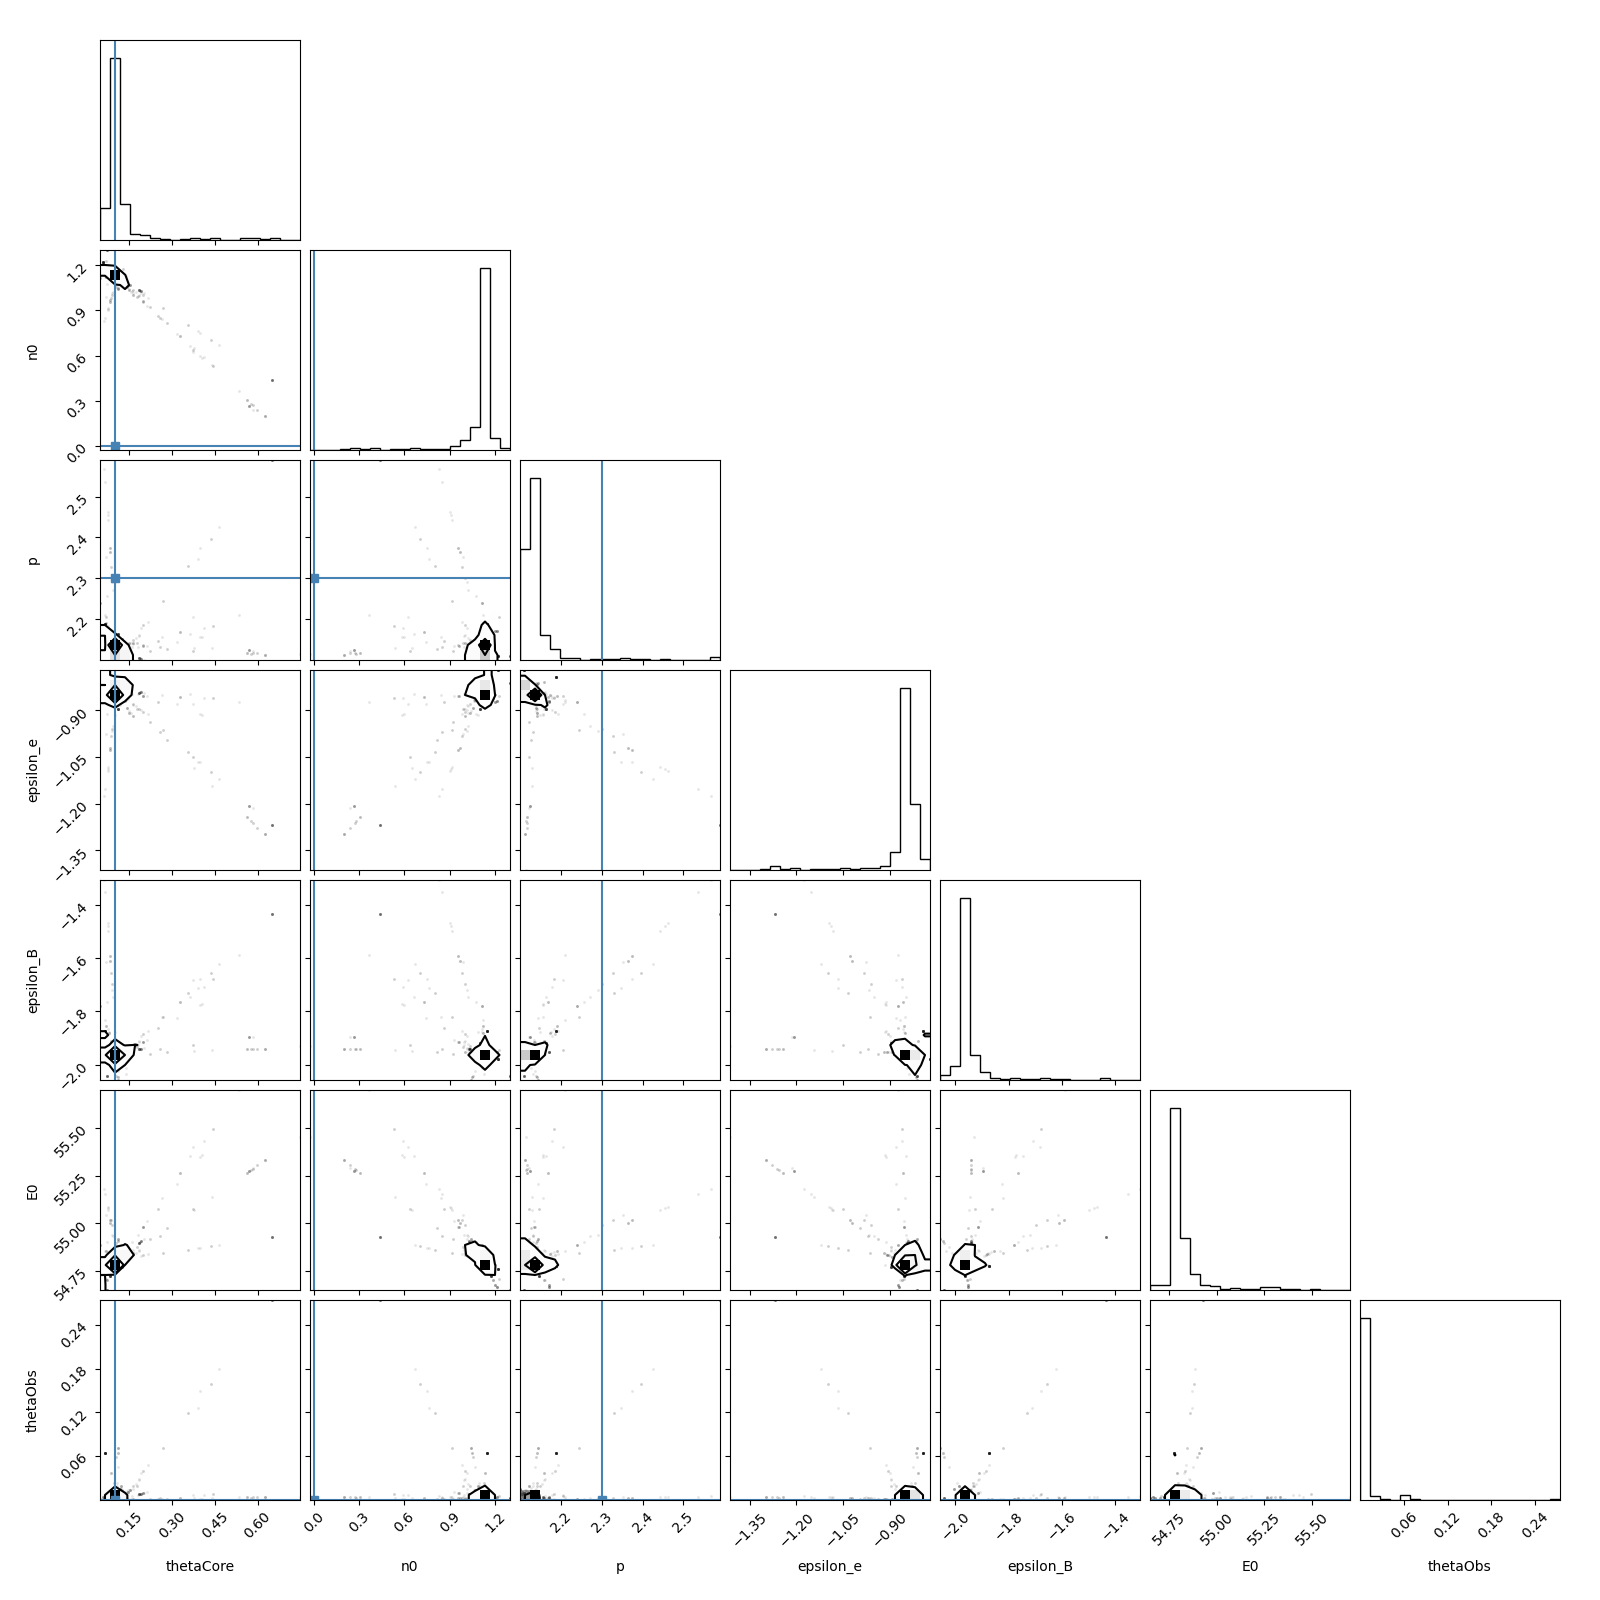
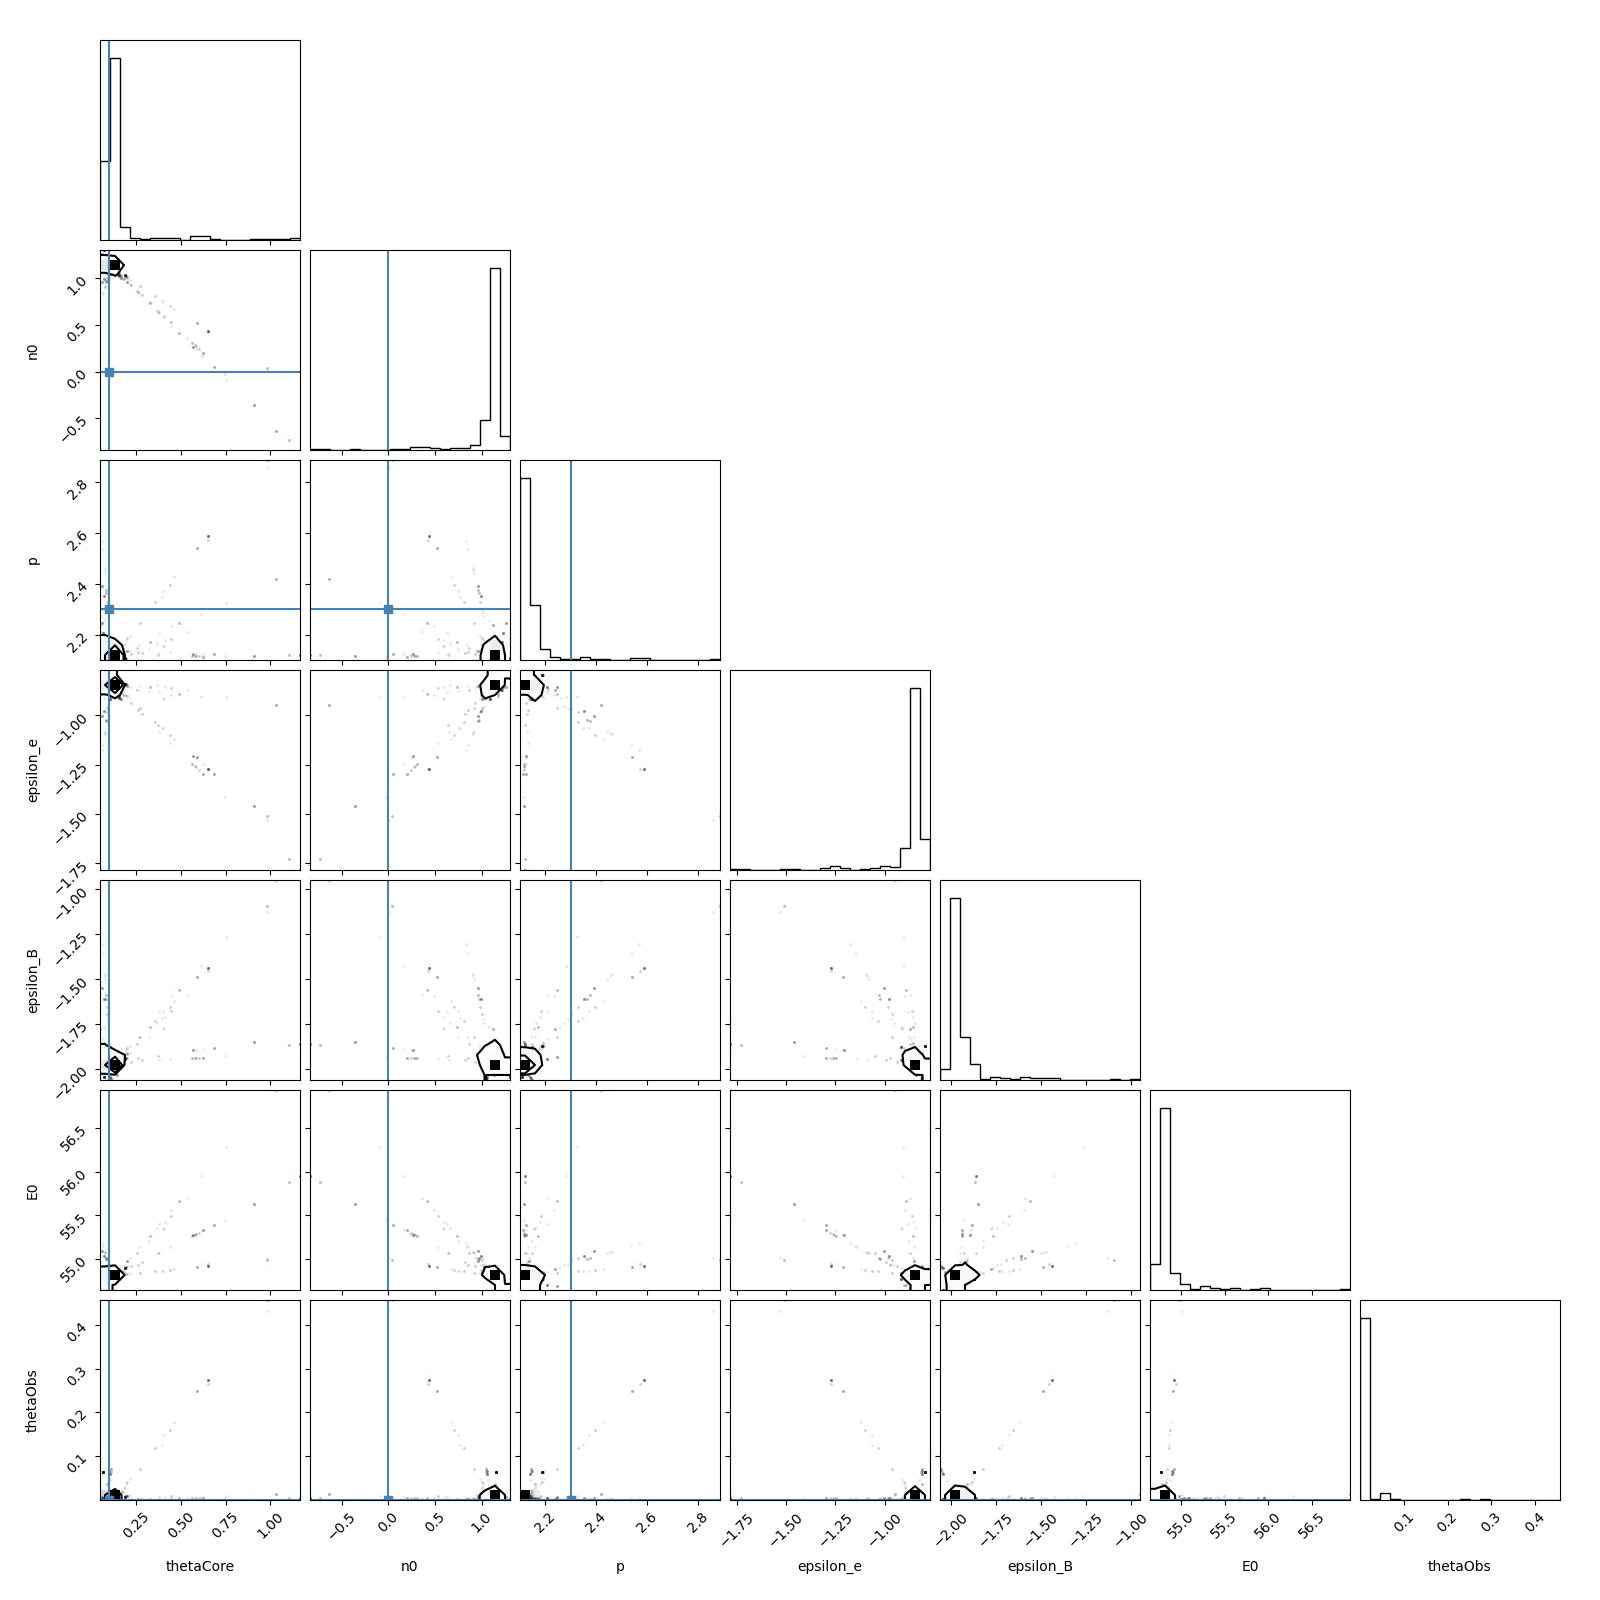
messing around with the real data

diff --git a/Flux_samplers/real_test7.py b/Flux_samplers/real_test7.py
@@ -12,13 +12,13 @@ from multiprocessing import Pool
 import time
 from functools import partial
 import concurrent.futures
-import sampler as splr
+import sampler7 as splr
 
 z = 1.619
 d_L = 39.755*9.461e26
 
 # core angle, log10 density, electron distribution, log10 thermal fraction, log10 magnetic fraction, log10 isotropic energy, observation angle
-initial = np.array([0.1,1.0,2.3,-1.0,-2.0,54.0])
+initial = np.array([0.1,1.0,2.3,-1.0,-2.0,54.0,0.0])
 
 #unpack data
 time, freq, flux, flux_err = np.genfromtxt('./data/990510.csv',delimiter=',',skip_header=1,unpack=True)
@@ -40,21 +40,14 @@ nu_err = np.zeros((len(t), len(nu)))
 
 err = [f_err,t_err,nu_err]
 truth = [0.1,0.0,2.3,-2,-4,53,0.0]
-"""
-for freq_idx, nu_value in enumerate(nu):
-    plt.errorbar(np.log10(t),F[:,freq_idx],yerr=f_err[:,freq_idx],fmt='.', label=f'{nu_value:.2e} Hz')
-plt.legend()
-plt.show()
-"""
-
 
 
 #if __name__ == "__main__":
     #run_parallel_optimization(x,F_noise,initial,err,processes=6)
-splr.run_optimization([t,nu],F,initial,err)
-"""
+#splr.run_optimization(x,F_noise,initial,err)
+
 if __name__ == "__main__":
-    splr.run_sampling([t,nu],F,initial,err,d_L=d_L,z=z,steps=10000,processes=4,genfile=1,filename='../../../Large_data/Real_Data.h5')
+    splr.run_sampling([t,nu],F,initial,err,d_L=d_L,z=z,steps=100,processes=4,genfile=1,filename='../../../Large_data/Real_Data.h5')
 
 
     file_path = '../../../Large_data/Real_Data.h5'
@@ -77,7 +70,7 @@ if __name__ == "__main__":
     labels = ["thetaCore", "n0", "p", "epsilon_e", "epsilon_B", "E0", "thetaObs"]
     # Plot the sampling results
     samples = reader.get_chain()
-    fig, axes = plt.subplots(len(labels), figsize=(10, 6), sharex=True)
+    fig, axes = plt.subplots(len(labels), figsize=(10, 7), sharex=True)
     for i, ax in enumerate(axes):
         ax.plot(samples[:, :, i], "k", alpha=0.3)
         ax.set_xlim(0, len(samples))
@@ -90,4 +83,3 @@ if __name__ == "__main__":
     fig2 = corner.corner(flat_samples, labels=labels, truths=truth)
     fig2.savefig('./graph/990510_contour.png')
     plt.close(fig2)
-"""

diff --git a/Flux_samplers/sampler.py b/Flux_samplers/sampler.py
@@ -81,7 +81,7 @@ def log_likelihood(theta, x, y, err, thetaObs, xi_N, d_L, z):
     sigma2 = err_flux**2 + model**2
     
 
-    #print(-0.5 * np.sum(np.exp(abs(y - model)) * (y - model)**2 / sigma2) - penalty_factor)
+    print(-0.5 * np.sum((y - model)**2 / sigma2))
     # Calculate the negative log-likelihood
     return -0.5 * np.sum((y - model)**2 / sigma2)
 
